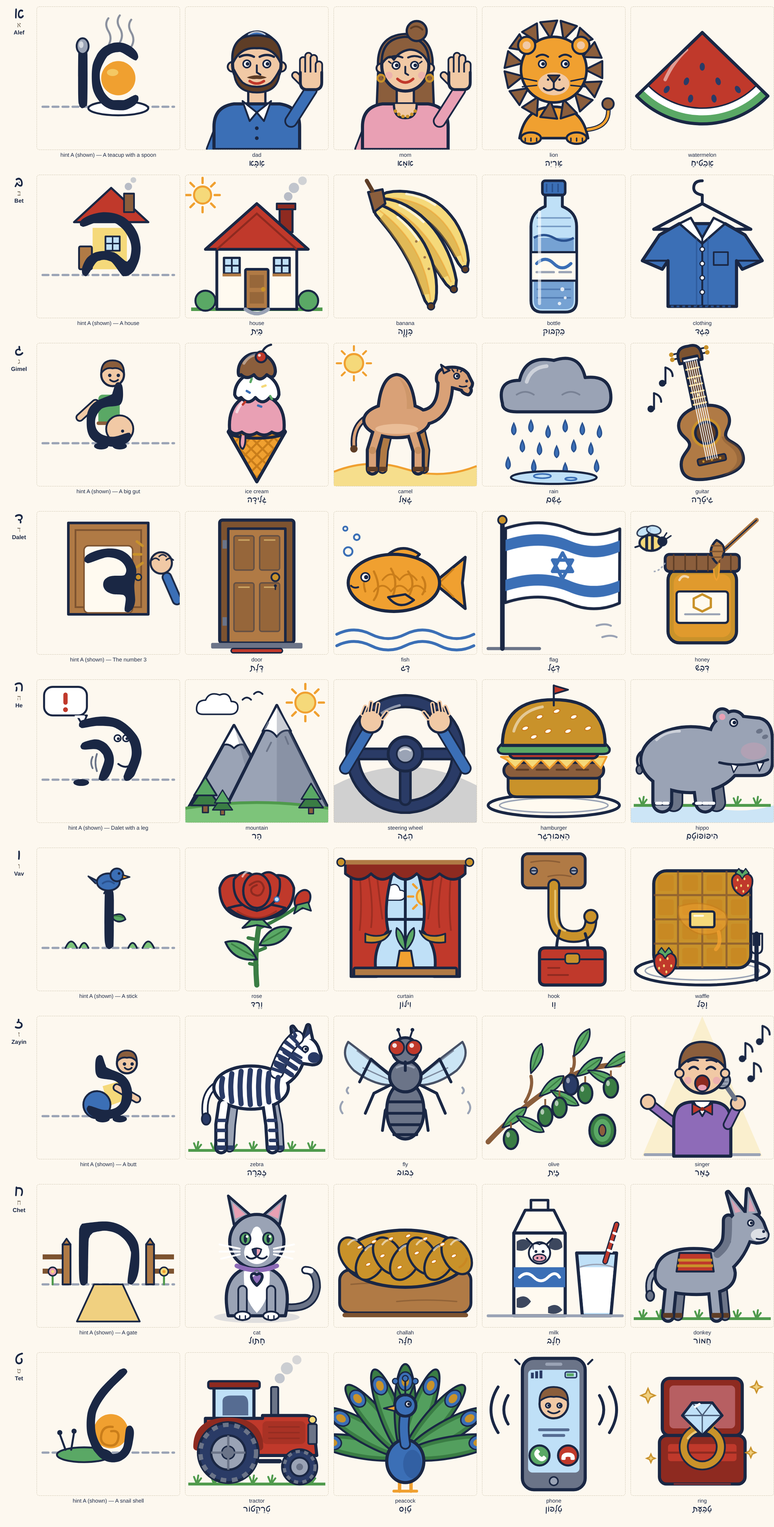
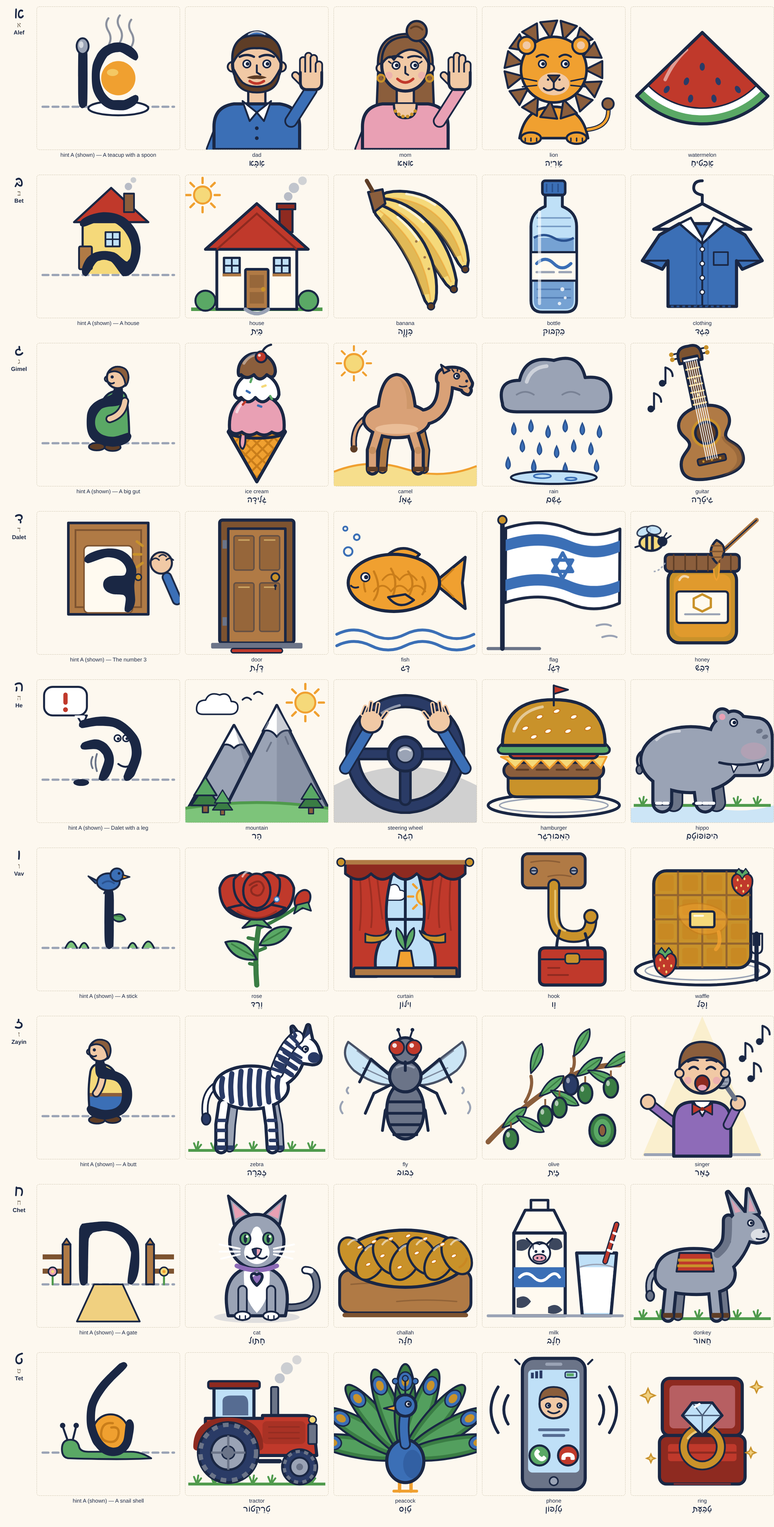
Letter Learner: five cursive picture hints redrawn — house, gimel, zayin, snail, kaf
- Bet (a house): the yellow wall now fills the whole house, following the
  letter's round back wall, with a left wall edge above the door.
- Gimel (a big gut) and zayin (a butt): each person faces left, so gimel's
  round bulge is the belly in front and zayin's is the butt behind; the
  shirt (and zayin's jeans) fill the letter's bowl, the head sits on the
  letter's stem, and brown shoes peek out underneath.
- Tet (a snail shell): the letter sits on the line like the others (its
  bottom matched to theirs), the shell fills the loop exactly, and the
  snail's body runs under the shell with its head and eye stalks in front.
- Kaf (a cupped hand): a hand curled into the kaf, with stacked fingers on
  top, the thumb below, a white cuff and blue sleeve like the "hand" word
  picture, and the ball caught inside.

Every letter shape is unchanged (tet only moved up 4.4 units). Cursive
review sheets c1 and c2 re-rendered; sw.js v1022.

Claude-Session: https://claude.ai/code/session_01FW7tFxqqg4UHwftoEBKYhF

diff --git a/letter_learner.html b/letter_learner.html
@@ -1200,16 +1200,16 @@ const VOWEL_TIPS = [
    write-up's own words. ═══ */
 const CURSIVE_TRICKS = [
   { id: 'alef', picture: 'A teacup with a spoon', hint: { caption: 'A little curve with a stick standing next to it, like a spoon beside its cup.', show: 0, variants: [{ label: 'A', svg: `<path d="M4 70H96" fill="none" stroke="var(--ll-gray)" stroke-width="1.6" stroke-dasharray="4 3" stroke-linecap="round"/><ellipse cx="57" cy="71" rx="21" ry="5" fill="var(--ll-white)" stroke="var(--ll-line)" stroke-linecap="round" stroke-linejoin="round" stroke-width="1.4"/><circle cx="57" cy="50" r="12" fill="var(--ll-orange)"/><ellipse cx="53" cy="46" rx="4" ry="2.5" fill="var(--ll-yellow)" opacity="0.7"/><g class="ll-anim ll-anim-drift"><path d="M50 27q3-5 0-10q-3-5 0-9M58 25q3-5 0-10q-3-5 0-9M66 28q3-5 0-10q-3-5 0-9" fill="none" stroke="var(--ll-gray-dk)" stroke-width="1.4" stroke-linecap="round" opacity="0.8"/></g><path d="M31.6 24.9C32.2 24.7 32.8 24.9 33.3 25.2C33.8 25.5 34.3 25.4 34.6 26.9C35 28.3 35.3 27.3 35.4 33.7C35.5 40.2 35.5 59.6 35.3 65.5C35.1 71.5 34.7 68.7 34.2 69.6C33.6 70.5 32.6 70.9 32 71C31.4 71.2 31 70.8 30.6 70.4C30.2 70 29.8 70.1 29.6 68.7C29.3 67.4 29 68.6 28.9 62.3C28.8 55.9 28.8 36.4 29 30.4C29.2 24.5 29.4 27.6 29.8 26.7C30.2 25.7 31 25.2 31.6 24.9ZM55.6 25C57.1 24.9 58.9 25 60.6 25.4C62.2 25.8 64 26.6 65.5 27.5C66.9 28.4 68.4 29.7 69.3 30.9C70.3 32.1 70.8 33.5 70.9 34.5C71.1 35.5 70.7 36.2 70.3 36.7C69.8 37.1 70 38 68.3 37.3C66.5 36.5 61.7 33.1 59.8 32.2C57.9 31.3 57.8 31.7 56.8 31.7C55.7 31.7 54.6 31.9 53.6 32.2C52.6 32.5 51.6 33 50.8 33.6C49.9 34.2 49.5 34.2 48.5 35.8C47.5 37.3 45.6 40.9 44.9 43C44.1 45.1 44 46.7 44 48.6C44 50.5 44.3 52.3 44.8 54.2C45.4 56.1 46.3 58.4 47.2 60C48.2 61.6 49.4 62.9 50.5 63.8C51.6 64.7 52.7 65.1 53.8 65.5C55 65.8 56.2 66 57.6 65.9C58.9 65.9 60.1 65.7 61.8 65C63.6 64.4 66.9 62.4 68.3 61.9C69.6 61.4 69.5 61.8 69.9 62C70.4 62.2 70.8 62.3 71 63C71.2 63.6 71.3 64.9 70.9 65.8C70.5 66.8 69.7 67.9 68.6 68.8C67.5 69.7 65.8 70.8 64.3 71.4C62.9 72 61.9 72.4 59.8 72.5C57.7 72.5 54.1 72.4 51.8 71.8C49.5 71.1 47.6 70 45.7 68.3C43.9 66.7 41.9 64 40.7 61.6C39.5 59.2 38.9 57.3 38.6 54.1C38.3 50.8 38.3 45.3 38.8 42C39.3 38.7 40.7 36.1 41.7 34.2C42.6 32.2 43.4 31.5 44.3 30.4C45.2 29.4 46 28.7 47.2 27.9C48.3 27.2 50 26.4 51.4 25.9C52.8 25.4 54 25 55.6 25Z" fill="var(--ll-line)" fill-rule="evenodd"/><ellipse cx="32" cy="27.5" rx="4.2" ry="5.5" fill="var(--ll-gray)" stroke="var(--ll-line)" stroke-linecap="round" stroke-linejoin="round" stroke-width="1.3"/><ellipse cx="31" cy="26.5" rx="1.6" ry="2.4" fill="var(--ll-white)" opacity="0.6"/>` }] } },
-  { id: 'bet', picture: 'A house', hint: { caption: 'Bayit means house: a round back wall with a floor that sticks out the front door.', show: 0, variants: [{ label: 'A', svg: `<path d="M4 70H96" fill="none" stroke="var(--ll-gray)" stroke-width="1.6" stroke-dasharray="4 3" stroke-linecap="round"/><polygon points="26,33 52,9 78,33" fill="var(--ll-red)" stroke="var(--ll-line)" stroke-linecap="round" stroke-linejoin="round" stroke-width="1.5"/><rect x="61" y="13" width="7" height="13" fill="var(--ll-brown)" stroke="var(--ll-line)" stroke-linecap="round" stroke-linejoin="round" stroke-width="1.2"/><g class="ll-anim ll-anim-drift"><circle cx="64" cy="8" r="2.6" fill="var(--ll-gray)" opacity="0.7"/><circle cx="67.5" cy="3.5" r="2" fill="var(--ll-gray)" opacity="0.5"/></g><rect x="39" y="37" width="24" height="29" fill="var(--ll-yellow)"/><rect x="48" y="43" width="10" height="10" fill="var(--ll-sky)" stroke="var(--ll-line)" stroke-linecap="round" stroke-linejoin="round" stroke-width="1.2"/><path d="M53 43v10M48 48h10" fill="none" stroke="var(--ll-line)" stroke-width="1"/><rect x="29.5" y="50" width="9" height="16" rx="1" fill="var(--ll-wood)" stroke="var(--ll-line)" stroke-linecap="round" stroke-linejoin="round" stroke-width="1.3"/><circle cx="36.5" cy="59" r="1" fill="var(--ll-line)"/><path d="M46.6 26C49.1 26 51.8 26.2 54.3 26.8C56.7 27.4 59.2 28.4 61.3 29.7C63.3 31.1 65.2 32.8 66.7 34.8C68.3 36.8 69.8 39.2 70.8 41.8C71.7 44.4 72.4 47.5 72.6 50.4C72.7 53.3 72.3 56.4 71.6 59.1C70.9 61.7 69.5 64.5 68.6 66.2C67.7 67.8 67.1 68.2 66.3 68.9C65.5 69.6 64.6 70.1 63.8 70.4C63 70.7 62.2 70.9 61.5 70.8C60.7 70.7 60.8 71.5 59.4 70C58 68.5 54.7 63.4 53.2 61.8C51.7 60.1 51.4 60.5 50.5 60.1C49.5 59.7 48.5 59.4 47.5 59.4C46.4 59.3 45.1 59.5 44.1 59.9C43 60.2 42.7 59.8 41.2 61.5C39.8 63.2 36.7 68.7 35.4 70.1C34 71.6 33.8 70.6 33.2 70.4C32.6 70.2 32 69.7 31.7 68.8C31.5 67.9 31.3 66.4 31.7 64.9C32.1 63.3 33.1 61 34 59.6C34.8 58.2 35.8 57.3 36.9 56.4C38.1 55.4 39.5 54.7 41.1 54.1C42.8 53.6 45 53.2 46.9 53.2C48.9 53.1 51.4 53.5 52.9 53.9C54.4 54.2 54.5 54.3 56.1 55.3C57.6 56.4 60.9 59.6 62.2 60.3C63.6 61 63.5 60.1 64.1 59.6C64.6 59.2 65.1 58.7 65.4 57.3C65.8 56 66.2 53.3 66.2 51.4C66.1 49.4 65.8 47.5 65 45.5C64.2 43.4 62.6 40.8 61.2 39C59.8 37.2 58.2 35.9 56.8 34.9C55.3 33.8 54.1 33.4 52.5 33C51 32.6 49.3 32.4 47.5 32.4C45.7 32.4 44 32.5 41.7 33.1C39.3 33.7 35.2 35.6 33.5 36C31.8 36.5 32 36.1 31.5 35.9C30.9 35.7 30.3 35.6 30.2 34.9C30 34.3 30 33.1 30.6 32.2C31.2 31.3 32.5 30.3 34 29.5C35.5 28.7 37.7 27.8 39.8 27.2C41.9 26.7 44.2 26.1 46.6 26Z" fill="var(--ll-line)" fill-rule="evenodd"/>` }] } },
-  { id: 'gimel', picture: 'A big gut', hint: { caption: 'Gimel has a gut: the round belly pokes out in front.', show: 0, variants: [{ label: 'A', svg: `<path d="M4 70H96" fill="none" stroke="var(--ll-gray)" stroke-width="1.6" stroke-dasharray="4 3" stroke-linecap="round"/><circle cx="53" cy="22" r="8" fill="var(--ll-skin)" stroke="var(--ll-line)" stroke-linecap="round" stroke-linejoin="round" stroke-width="1.5"/><path d="M45 21Q45 12 53 12Q61 12 61 21Q57.8 16.4 53 17.6Q48.2 16.4 45 21Z" fill="var(--ll-brown)" stroke="var(--ll-line)" stroke-linecap="round" stroke-linejoin="round" stroke-width="1.2"/><circle cx="51" cy="22.5" r="1.2" fill="var(--ll-line)"/><circle cx="57" cy="22.5" r="1.2" fill="var(--ll-line)"/><path d="M51.2 25.6q2.8 2.4 5.6 0" fill="none" stroke="var(--ll-line)" stroke-linecap="round" stroke-linejoin="round" stroke-width="1.2"/><path d="M41 42L30 52" fill="none" stroke="var(--ll-line)" stroke-width="6" stroke-linecap="round" stroke-linejoin="round"/><path d="M41 42L30 52" fill="none" stroke="var(--ll-skin)" stroke-width="3.6" stroke-linecap="round" stroke-linejoin="round"/><rect x="43" y="36" width="15" height="21" rx="3" fill="var(--ll-green)"/><path d="M43 56h18" fill="none" stroke="var(--ll-brown)" stroke-width="2.4" stroke-linecap="round"/><circle cx="58" cy="60" r="9.5" fill="var(--ll-skin)" stroke="var(--ll-line)" stroke-linecap="round" stroke-linejoin="round" stroke-width="1.3"/><ellipse cx="45" cy="72" rx="5" ry="2.4" fill="var(--ll-line)"/><ellipse cx="58" cy="72" rx="5" ry="2.4" fill="var(--ll-line)"/><path d="M56.6 27.3C57.2 27.2 58.2 27.4 58.8 28C59.3 28.6 59.8 29.3 60 30.8C60.3 32.4 60.4 35.4 60.3 37.2C60.2 39 59.9 40.4 59.4 41.4C58.8 42.5 58.7 43.1 56.9 43.6C55 44.2 50.3 44.2 48.2 44.8C46.2 45.3 45.5 45.6 44.4 46.8C43.2 48 41.8 50.1 41.2 52C40.6 53.8 40.6 56.3 41 58C41.3 59.7 42.2 61.1 43.3 62.2C44.5 63.4 45.9 64.2 47.8 64.7C49.7 65.3 52 65.7 54.6 65.3C57.3 65 61.9 63 63.7 62.7C65.5 62.5 65.2 63.1 65.6 63.6C66 64.1 66.3 64.8 66.1 65.6C65.9 66.5 65.4 67.7 64.5 68.6C63.6 69.5 62.2 70.3 60.7 70.9C59.3 71.5 57.5 72 55.7 72.2C54 72.5 52.7 72.6 50.5 72.2C48.2 71.8 44.3 70.8 42.1 69.8C40 68.8 38.6 67.7 37.4 66.1C36.2 64.4 35.5 62.5 35.1 60C34.7 57.4 34.8 53.2 35 51C35.2 48.7 35.6 47.9 36.1 46.6C36.7 45.3 37.3 44.3 38.4 43.2C39.5 42.1 40.4 41.2 42.6 40C44.8 38.8 49.9 37.1 51.7 36.2C53.4 35.2 52.6 35.4 53.1 34.2C53.6 32.9 54.3 30 54.9 28.8C55.5 27.7 55.9 27.5 56.6 27.3Z" fill="var(--ll-line)" fill-rule="evenodd"/><circle cx="60" cy="61.5" r="1.1" fill="var(--ll-line)"/>` }] } },
+  { id: 'bet', picture: 'A house', hint: { caption: 'Bayit means house: a round back wall with a floor that sticks out the front door.', show: 0, variants: [{ label: 'A', svg: `<path d="M4 70H96" fill="none" stroke="var(--ll-gray)" stroke-width="1.6" stroke-dasharray="4 3" stroke-linecap="round"/><path d="M32 33H64Q69 40 69.5 50Q69.5 60 66 66L62.5 69.2H32Z" fill="var(--ll-yellow)"/><path d="M32 33V66" fill="none" stroke="var(--ll-line)" stroke-width="1.5" stroke-linecap="round"/><polygon points="26,33 52,9 78,33" fill="var(--ll-red)" stroke="var(--ll-line)" stroke-linecap="round" stroke-linejoin="round" stroke-width="1.5"/><rect x="61" y="13" width="7" height="13" fill="var(--ll-brown)" stroke="var(--ll-line)" stroke-linecap="round" stroke-linejoin="round" stroke-width="1.2"/><g class="ll-anim ll-anim-drift"><circle cx="64" cy="8" r="2.6" fill="var(--ll-gray)" opacity="0.7"/><circle cx="67.5" cy="3.5" r="2" fill="var(--ll-gray)" opacity="0.5"/></g><rect x="48" y="40" width="10" height="10" fill="var(--ll-sky)" stroke="var(--ll-line)" stroke-linecap="round" stroke-linejoin="round" stroke-width="1.2"/><path d="M53 40v10M48 45h10" fill="none" stroke="var(--ll-line)" stroke-width="1"/><rect x="29.5" y="50" width="9" height="16" rx="1" fill="var(--ll-wood)" stroke="var(--ll-line)" stroke-linecap="round" stroke-linejoin="round" stroke-width="1.3"/><circle cx="36.5" cy="59" r="1" fill="var(--ll-line)"/><path d="M46.6 26C49.1 26 51.8 26.2 54.3 26.8C56.7 27.4 59.2 28.4 61.3 29.7C63.3 31.1 65.2 32.8 66.7 34.8C68.3 36.8 69.8 39.2 70.8 41.8C71.7 44.4 72.4 47.5 72.6 50.4C72.7 53.3 72.3 56.4 71.6 59.1C70.9 61.7 69.5 64.5 68.6 66.2C67.7 67.8 67.1 68.2 66.3 68.9C65.5 69.6 64.6 70.1 63.8 70.4C63 70.7 62.2 70.9 61.5 70.8C60.7 70.7 60.8 71.5 59.4 70C58 68.5 54.7 63.4 53.2 61.8C51.7 60.1 51.4 60.5 50.5 60.1C49.5 59.7 48.5 59.4 47.5 59.4C46.4 59.3 45.1 59.5 44.1 59.9C43 60.2 42.7 59.8 41.2 61.5C39.8 63.2 36.7 68.7 35.4 70.1C34 71.6 33.8 70.6 33.2 70.4C32.6 70.2 32 69.7 31.7 68.8C31.5 67.9 31.3 66.4 31.7 64.9C32.1 63.3 33.1 61 34 59.6C34.8 58.2 35.8 57.3 36.9 56.4C38.1 55.4 39.5 54.7 41.1 54.1C42.8 53.6 45 53.2 46.9 53.2C48.9 53.1 51.4 53.5 52.9 53.9C54.4 54.2 54.5 54.3 56.1 55.3C57.6 56.4 60.9 59.6 62.2 60.3C63.6 61 63.5 60.1 64.1 59.6C64.6 59.2 65.1 58.7 65.4 57.3C65.8 56 66.2 53.3 66.2 51.4C66.1 49.4 65.8 47.5 65 45.5C64.2 43.4 62.6 40.8 61.2 39C59.8 37.2 58.2 35.9 56.8 34.9C55.3 33.8 54.1 33.4 52.5 33C51 32.6 49.3 32.4 47.5 32.4C45.7 32.4 44 32.5 41.7 33.1C39.3 33.7 35.2 35.6 33.5 36C31.8 36.5 32 36.1 31.5 35.9C30.9 35.7 30.3 35.6 30.2 34.9C30 34.3 30 33.1 30.6 32.2C31.2 31.3 32.5 30.3 34 29.5C35.5 28.7 37.7 27.8 39.8 27.2C41.9 26.7 44.2 26.1 46.6 26Z" fill="var(--ll-line)" fill-rule="evenodd"/>` }] } },
+  { id: 'gimel', picture: 'A big gut', hint: { caption: 'Gimel has a gut: the round belly pokes out in front.', show: 0, variants: [{ label: 'A', svg: `<path d="M4 70H96" fill="none" stroke="var(--ll-gray)" stroke-width="1.6" stroke-dasharray="4 3" stroke-linecap="round"/><ellipse cx="42" cy="72.4" rx="5.6" ry="2.6" fill="var(--ll-brown-dk)" stroke="var(--ll-line)" stroke-width="1.2"/><ellipse cx="53" cy="72.8" rx="5.6" ry="2.6" fill="var(--ll-brown-dk)" stroke="var(--ll-line)" stroke-width="1.2"/><path d="M46.5 39.5Q50 33.5 56.5 33.5Q62 33.5 62.8 38.5Q64.4 50 64.8 64L50 68Q37 66 38.5 52Q40 43 46.5 39.5Z" fill="var(--ll-green)"/><path d="M46.5 39.5Q50 33.5 56.5 33.5Q62 33.5 62.8 38.5Q64.4 50 64.6 63.5" fill="none" stroke="var(--ll-line)" stroke-width="1.5" stroke-linecap="round" stroke-linejoin="round"/><path d="M61.6 40.5Q60.5 50 51 53" fill="none" stroke="var(--ll-line)" stroke-width="6" stroke-linecap="round" stroke-linejoin="round"/><path d="M61.6 40.5Q60.5 50 51 53" fill="none" stroke="var(--ll-skin)" stroke-width="3.6" stroke-linecap="round" stroke-linejoin="round"/><path d="M56.6 27.3C57.2 27.2 58.2 27.4 58.8 28C59.3 28.6 59.8 29.3 60 30.8C60.3 32.4 60.4 35.4 60.3 37.2C60.2 39 59.9 40.4 59.4 41.4C58.8 42.5 58.7 43.1 56.9 43.6C55 44.2 50.3 44.2 48.2 44.8C46.2 45.3 45.5 45.6 44.4 46.8C43.2 48 41.8 50.1 41.2 52C40.6 53.8 40.6 56.3 41 58C41.3 59.7 42.2 61.1 43.3 62.2C44.5 63.4 45.9 64.2 47.8 64.7C49.7 65.3 52 65.7 54.6 65.3C57.3 65 61.9 63 63.7 62.7C65.5 62.5 65.2 63.1 65.6 63.6C66 64.1 66.3 64.8 66.1 65.6C65.9 66.5 65.4 67.7 64.5 68.6C63.6 69.5 62.2 70.3 60.7 70.9C59.3 71.5 57.5 72 55.7 72.2C54 72.5 52.7 72.6 50.5 72.2C48.2 71.8 44.3 70.8 42.1 69.8C40 68.8 38.6 67.7 37.4 66.1C36.2 64.4 35.5 62.5 35.1 60C34.7 57.4 34.8 53.2 35 51C35.2 48.7 35.6 47.9 36.1 46.6C36.7 45.3 37.3 44.3 38.4 43.2C39.5 42.1 40.4 41.2 42.6 40C44.8 38.8 49.9 37.1 51.7 36.2C53.4 35.2 52.6 35.4 53.1 34.2C53.6 32.9 54.3 30 54.9 28.8C55.5 27.7 55.9 27.5 56.6 27.3Z" fill="var(--ll-line)" fill-rule="evenodd"/><circle cx="49.4" cy="25" r="1.9" fill="var(--ll-skin)" stroke="var(--ll-line)" stroke-width="1.2"/><circle cx="56.5" cy="24" r="7.5" fill="var(--ll-skin)" stroke="var(--ll-line)" stroke-linecap="round" stroke-linejoin="round" stroke-width="1.5"/><path d="M50.5 20.6Q52 16.4 56.5 16.4Q64.2 16.5 64.1 24Q64 28 62.1 29.8Q61.5 23.4 57.9 20.6Q54.3 18.6 50.5 20.6Z" fill="var(--ll-brown)" stroke="var(--ll-line)" stroke-linecap="round" stroke-linejoin="round" stroke-width="1.2"/><circle cx="52.7" cy="23.6" r="1.1" fill="var(--ll-line)"/><path d="M50.4 27.4q1.7 1.5 3.6 0.3" fill="none" stroke="var(--ll-line)" stroke-linecap="round" stroke-linejoin="round" stroke-width="1.2"/>` }] } },
   { id: 'dalet', picture: 'The number 3', hint: { caption: 'Dalet looks like a 3. Delet means door: knock 3 times.', show: 0, variants: [{ label: 'A', svg: `<rect x="22" y="8" width="56" height="64" fill="var(--ll-wood)" stroke="var(--ll-line)" stroke-linecap="round" stroke-linejoin="round" stroke-width="1.8"/><rect x="27" y="13" width="46" height="54" fill="none" stroke="var(--ll-wood-dk)" stroke-width="1.2"/><rect x="33" y="24" width="34" height="47" rx="3" fill="var(--ll-paper)" stroke="var(--ll-wood-dk)" stroke-width="1"/><circle cx="71" cy="46" r="2.2" fill="var(--ll-gold)" stroke="var(--ll-line)" stroke-linecap="round" stroke-linejoin="round" stroke-width="1"/><path d="M74 24l-4-3M73 30l-5 0M74 36l-4 3" fill="none" stroke="var(--ll-gold)" stroke-width="1.8" stroke-linecap="round"/><g class="ll-anim ll-anim-drift"><path d="M98 62L91 46" fill="none" stroke="var(--ll-line)" stroke-width="7.4" stroke-linecap="round" stroke-linejoin="round"/><path d="M98 62L91 46" fill="none" stroke="var(--ll-blue)" stroke-width="5" stroke-linecap="round" stroke-linejoin="round"/><circle cx="87" cy="36" r="7.5" fill="var(--ll-skin)" stroke="var(--ll-line)" stroke-linecap="round" stroke-linejoin="round" stroke-width="1.4"/><path d="M80.5 34q2.5-2.5 5 0M85.5 31.5q2.5-2.5 5 0M90.5 34q2.5-2.5 5 0" fill="none" stroke="var(--ll-line)" stroke-width="1" stroke-linecap="round"/></g><path d="M48.5 26C50.7 25.8 53.3 25.9 55.4 26.2C57.5 26.6 59.6 27.3 61.3 28.3C62.9 29.2 64.3 30.4 65.5 31.9C66.7 33.4 67.9 35.6 68.6 37.4C69.3 39.2 69.7 40.3 69.6 42.7C69.5 45.1 68.3 48.4 68.2 51.7C68.1 54.9 68.9 59.6 68.8 62.3C68.6 64.9 68 66.3 67.3 67.7C66.6 69 65.4 69.9 64.6 70.4C63.9 70.8 63.2 70.6 62.6 70.3C62.1 70.1 61.5 70.2 61.4 68.7C61.3 67.3 62.2 63.1 62.2 61.5C62.2 59.9 61.8 59.7 61.4 59.2C61 58.7 60.9 58.5 59.6 58.3C58.3 58.1 55.1 58.1 53.5 57.9C52 57.6 51.2 57.3 50.2 56.8C49.2 56.3 48.3 55.6 47.6 54.7C47 53.9 46.5 52.8 46.4 51.7C46.3 50.7 46.5 49.3 47 48.4C47.5 47.4 48.5 46.7 49.5 46.1C50.5 45.6 51.3 45.3 53 45.1C54.7 44.9 58.2 45.1 59.7 44.9C61.2 44.7 61.3 44.6 61.8 43.9C62.3 43.1 62.8 41.7 62.5 40.4C62.3 39.1 61.4 37.4 60.4 36.3C59.4 35.1 58 34.1 56.4 33.4C54.9 32.7 52.9 32.3 51.2 32.1C49.5 32 48.6 32 46.2 32.7C43.8 33.3 38.7 35.5 36.7 36C34.8 36.5 35.1 36 34.5 35.7C33.9 35.5 33.4 35.1 33.2 34.5C33.1 33.8 33.2 32.7 33.7 31.9C34.3 31.1 35 30.4 36.5 29.6C37.9 28.8 40.4 27.8 42.4 27.2C44.4 26.6 46.3 26.2 48.5 26Z" fill="var(--ll-line)" fill-rule="evenodd"/>` }] } },
   { id: 'he', picture: 'Dalet with a leg', hint: { caption: "Dalet's 3 with a little leg that doesn't touch: \"Hey, don't touch me!\"", show: 0, variants: [{ label: 'A', svg: `<path d="M4 70H96" fill="none" stroke="var(--ll-gray)" stroke-width="1.6" stroke-dasharray="4 3" stroke-linecap="round"/><rect x="5" y="5" width="30" height="20" rx="6" fill="var(--ll-white)" stroke="var(--ll-line)" stroke-linecap="round" stroke-linejoin="round" stroke-width="1.4"/><path d="M28 25l4 7l3-7z" fill="var(--ll-white)" stroke="var(--ll-line)" stroke-linecap="round" stroke-linejoin="round" stroke-width="1.3"/><rect x="26.5" y="25" width="7" height="1.8" fill="var(--ll-white)"/><rect x="18.5" y="9" width="3" height="8.5" rx="1.5" fill="var(--ll-red)"/><circle cx="20" cy="21" r="1.7" fill="var(--ll-red)"/><circle cx="56.5" cy="41" r="2.3" fill="var(--ll-white)" stroke="var(--ll-line)" stroke-linecap="round" stroke-linejoin="round" stroke-width="1"/><circle cx="62.5" cy="41" r="2.3" fill="var(--ll-white)" stroke="var(--ll-line)" stroke-linecap="round" stroke-linejoin="round" stroke-width="1"/><circle cx="57" cy="41.3" r="1" fill="var(--ll-line)"/><circle cx="63" cy="41.3" r="1" fill="var(--ll-line)"/><path d="M57 59q5 4 10 0" fill="none" stroke="var(--ll-line)" stroke-linecap="round" stroke-linejoin="round" stroke-width="1.3"/><path d="M39 54q-2 4 0 8M42 52q-2 6 0 12" fill="none" stroke="var(--ll-gray-dk)" stroke-width="1.2" stroke-linecap="round"/><ellipse cx="31" cy="72" rx="5.5" ry="2.4" fill="var(--ll-line)"/><path d="M42.5 26C45.7 25.6 48.7 25.7 51.3 26.2C54 26.6 56.3 27.3 58.6 28.5C60.9 29.8 63.2 31.6 65.3 33.6C67.3 35.6 69.5 38.1 70.8 40.5C72.1 42.8 72.7 45.5 73 47.8C73.4 50.2 73.5 51.9 72.8 54.8C72.2 57.7 70 63.2 69 65.5C68 67.8 67.6 67.9 66.8 68.7C66.1 69.5 65.4 70.2 64.6 70.5C63.9 70.8 62.7 71 62.1 70.7C61.4 70.4 60.9 69.5 60.8 68.7C60.6 67.9 60.5 67.9 61.3 65.9C62 63.8 64.5 58.9 65.4 56.4C66.2 53.9 66.4 52.9 66.4 50.9C66.4 48.9 66 46.4 65.2 44.4C64.4 42.3 63.1 40.2 61.6 38.6C60.2 37 58.3 35.6 56.6 34.6C54.9 33.6 54.1 33.1 51.6 32.7C49.2 32.3 45.1 32.2 41.9 32.3C38.7 32.5 34.3 33.6 32.5 33.8C30.6 34 31.1 33.7 30.7 33.5C30.2 33.3 29.7 33 29.5 32.5C29.4 31.9 29.3 30.9 29.8 30.2C30.2 29.5 30 28.9 32.1 28.2C34.3 27.5 39.3 26.3 42.5 26ZM40.2 41.8C42.1 41.6 43.3 42 44.7 42.5C46 43 47.4 43.8 48.6 44.8C49.7 45.9 50.9 47.3 51.7 48.7C52.6 50.1 53.2 51.7 53.6 53.3C53.9 54.9 54 56.5 53.8 58.3C53.6 60.1 52.9 62.3 52.2 64.1C51.5 65.8 50.6 67.5 49.7 68.6C48.7 69.8 47.5 70.5 46.6 70.7C45.7 71 44.9 70.7 44.3 70.4C43.8 70 42.9 70.6 43.4 68.4C43.8 66.3 46.4 59.9 47 57.6C47.6 55.3 47.2 55.5 47 54.5C46.7 53.5 46.7 52.7 45.8 51.8C44.9 50.8 43.7 49.2 41.6 48.7C39.4 48.2 34.6 49.2 32.8 48.9C30.9 48.7 30.9 47.9 30.6 47.3C30.3 46.7 30.6 46 31 45.4C31.4 44.8 31.4 44.3 32.9 43.7C34.5 43.1 38.2 42 40.2 41.8Z" fill="var(--ll-line)" fill-rule="evenodd"/>` }] } },
   { id: 'vav', picture: 'A stick', hint: { caption: 'One straight line, like a stick or a hook hanging down.', show: 0, variants: [{ label: 'A', svg: `<path d="M4 70H96" fill="none" stroke="var(--ll-gray)" stroke-width="1.6" stroke-dasharray="4 3" stroke-linecap="round"/><path d="M20 70q4-9 8 0M30 70q3-7 6 0M64 70q3-7 6 0M74 70q4-9 8 0" fill="var(--ll-grass)" stroke="var(--ll-line)" stroke-linecap="round" stroke-linejoin="round" stroke-width="1.2"/><path d="M52 48q8-4 10 2q-6 4-10-2z" fill="var(--ll-green)" stroke="var(--ll-line)" stroke-linecap="round" stroke-linejoin="round" stroke-width="1.2"/><path d="M52 48q5-1 9 1" fill="none" stroke="var(--ll-green-dk)" stroke-width="0.8"/><path d="M50.6 27.3C51.2 27.2 51.7 27.5 52.1 27.9C52.6 28.3 52.9 28.2 53.2 29.7C53.5 31.1 53.8 30.7 53.9 36.7C53.9 42.7 53.9 60.4 53.7 65.8C53.6 71.3 53.3 68.6 52.8 69.4C52.3 70.2 51.4 70.7 50.8 70.8C50.2 70.9 49.6 70.5 49.2 70C48.7 69.6 48.3 69.7 48 68.1C47.7 66.5 47.4 66.4 47.3 60.5C47.2 54.6 47.3 38 47.5 32.7C47.7 27.5 48 29.8 48.5 28.9C49 28 50 27.5 50.6 27.3Z" fill="var(--ll-line)" fill-rule="evenodd"/><g class="ll-anim ll-anim-bob"><ellipse cx="50" cy="24" rx="8" ry="6" fill="var(--ll-blue)" stroke="var(--ll-line)" stroke-linecap="round" stroke-linejoin="round" stroke-width="1.3"/><circle cx="56" cy="19" r="4.5" fill="var(--ll-blue)" stroke="var(--ll-line)" stroke-linecap="round" stroke-linejoin="round" stroke-width="1.3"/><path d="M60 19l5 1.5l-5 1.5z" fill="var(--ll-orange)" stroke="var(--ll-line)" stroke-linecap="round" stroke-linejoin="round" stroke-width="1"/><circle cx="57.5" cy="18" r="0.9" fill="var(--ll-line)"/><path d="M42 23l-6-3l5 5" fill="var(--ll-blue-dk)" stroke="var(--ll-line)" stroke-linecap="round" stroke-linejoin="round" stroke-width="1.1"/><path d="M46 25q4-3 8 0" fill="none" stroke="var(--ll-blue-dk)" stroke-width="1.2" stroke-linecap="round"/><path d="M48 30l-1 2M52 30l1 2" fill="none" stroke="var(--ll-line)" stroke-linecap="round" stroke-linejoin="round" stroke-width="1.1"/></g>` }] } },
-  { id: 'zayin', picture: 'A butt', hint: { caption: 'Zayin has a butt: it sticks out in back.', show: 0, variants: [{ label: 'A', svg: `<path d="M4 70H96" fill="none" stroke="var(--ll-gray)" stroke-width="1.6" stroke-dasharray="4 3" stroke-linecap="round"/><circle cx="63" cy="33" r="7" fill="var(--ll-skin)" stroke="var(--ll-line)" stroke-linecap="round" stroke-linejoin="round" stroke-width="1.5"/><path d="M56 32Q56 24 63 24Q70 24 70 32Q67.2 28.1 63 29.1Q58.8 28.1 56 32Z" fill="var(--ll-brown)" stroke="var(--ll-line)" stroke-linecap="round" stroke-linejoin="round" stroke-width="1.2"/><circle cx="61.3" cy="33.5" r="1.2" fill="var(--ll-line)"/><circle cx="66.7" cy="33.5" r="1.2" fill="var(--ll-line)"/><path d="M61.5 36.1q2.4 2.4 4.9 0" fill="none" stroke="var(--ll-line)" stroke-linecap="round" stroke-linejoin="round" stroke-width="1.2"/><polygon points="46,49 60,45 64,58 50,63" fill="var(--ll-yellow)"/><circle cx="42" cy="62" r="9.5" fill="var(--ll-blue)" stroke="var(--ll-line)" stroke-linecap="round" stroke-linejoin="round" stroke-width="1.3"/><path d="M56 50L70 58" fill="none" stroke="var(--ll-line)" stroke-width="6" stroke-linecap="round" stroke-linejoin="round"/><path d="M56 50L70 58" fill="none" stroke="var(--ll-skin)" stroke-width="3.6" stroke-linecap="round" stroke-linejoin="round"/><ellipse cx="46" cy="72" rx="5" ry="2.4" fill="var(--ll-line)"/><ellipse cx="58" cy="72" rx="5" ry="2.4" fill="var(--ll-line)"/><path d="M43.5 27.3C44 27.1 44.5 27.2 44.9 27.4C45.3 27.6 45.6 27.4 46.1 28.5C46.6 29.6 47.5 33 48.1 34.3C48.7 35.6 47.9 35.4 49.7 36.3C51.4 37.3 56.3 38.8 58.5 40C60.6 41.1 61.4 41.9 62.5 43C63.6 44.2 64.4 45.5 65.1 47C65.7 48.6 66.4 50.3 66.6 52.4C66.8 54.5 66.8 57.3 66.2 59.6C65.6 61.8 64.3 64.3 62.9 66C61.6 67.7 60.2 68.7 58.1 69.7C55.9 70.7 52.3 71.7 50.2 72.1C48 72.5 46.8 72.4 45.2 72.2C43.5 72 41.8 71.5 40.3 70.9C38.9 70.3 37.5 69.4 36.6 68.5C35.7 67.6 35.1 66.4 34.9 65.6C34.7 64.7 35 64 35.4 63.5C35.8 63.1 35.4 62.4 37.3 62.8C39.1 63.1 43.7 65.2 46.3 65.5C48.9 65.9 51 65.5 52.8 65.1C54.6 64.6 56 63.8 57.1 62.7C58.2 61.6 58.9 60.3 59.2 58.4C59.6 56.6 59.7 53.6 59.3 51.7C59 49.8 57.9 48.1 56.9 46.9C55.8 45.8 55.2 45.4 53.1 44.8C50.9 44.2 46.1 44 44.2 43.4C42.3 42.8 42.3 42.2 41.7 41.3C41.2 40.3 41 39.2 40.9 37.6C40.8 36 40.8 33.2 41 31.7C41.2 30.2 41.4 29.5 41.8 28.8C42.3 28 43 27.5 43.5 27.3Z" fill="var(--ll-line)" fill-rule="evenodd"/>` }] } },
+  { id: 'zayin', picture: 'A butt', hint: { caption: 'Zayin has a butt: it sticks out in back.', show: 0, variants: [{ label: 'A', svg: `<path d="M4 70H96" fill="none" stroke="var(--ll-gray)" stroke-width="1.6" stroke-dasharray="4 3" stroke-linecap="round"/><ellipse cx="42" cy="72.6" rx="5.6" ry="2.6" fill="var(--ll-brown-dk)" stroke="var(--ll-line)" stroke-width="1.2"/><ellipse cx="53" cy="72.2" rx="5.6" ry="2.6" fill="var(--ll-brown-dk)" stroke="var(--ll-line)" stroke-width="1.2"/><path d="M36.6 63Q35.6 50 37.4 39Q38.5 33.5 44 33.5Q50.5 33.5 54 38.5L62 44V56H36.6Z" fill="var(--ll-yellow)"/><path d="M36.4 55H62.5V60Q61 66 54 68H40Q37 67 36.6 63Z" fill="var(--ll-blue)"/><path d="M36.8 55H59.5" fill="none" stroke="var(--ll-brown)" stroke-width="2.4" stroke-linecap="round"/><path d="M36.6 63Q35.6 50 37.4 39Q38.5 33.5 44 33.5Q50.5 33.5 54 38.5" fill="none" stroke="var(--ll-line)" stroke-width="1.5" stroke-linecap="round" stroke-linejoin="round"/><path d="M46 41Q45.5 49 41.5 54" fill="none" stroke="var(--ll-line)" stroke-width="6" stroke-linecap="round" stroke-linejoin="round"/><path d="M46 41Q45.5 49 41.5 54" fill="none" stroke="var(--ll-skin)" stroke-width="3.6" stroke-linecap="round" stroke-linejoin="round"/><path d="M43.5 27.3C44 27.1 44.5 27.2 44.9 27.4C45.3 27.6 45.6 27.4 46.1 28.5C46.6 29.6 47.5 33 48.1 34.3C48.7 35.6 47.9 35.4 49.7 36.3C51.4 37.3 56.3 38.8 58.5 40C60.6 41.1 61.4 41.9 62.5 43C63.6 44.2 64.4 45.5 65.1 47C65.7 48.6 66.4 50.3 66.6 52.4C66.8 54.5 66.8 57.3 66.2 59.6C65.6 61.8 64.3 64.3 62.9 66C61.6 67.7 60.2 68.7 58.1 69.7C55.9 70.7 52.3 71.7 50.2 72.1C48 72.5 46.8 72.4 45.2 72.2C43.5 72 41.8 71.5 40.3 70.9C38.9 70.3 37.5 69.4 36.6 68.5C35.7 67.6 35.1 66.4 34.9 65.6C34.7 64.7 35 64 35.4 63.5C35.8 63.1 35.4 62.4 37.3 62.8C39.1 63.1 43.7 65.2 46.3 65.5C48.9 65.9 51 65.5 52.8 65.1C54.6 64.6 56 63.8 57.1 62.7C58.2 61.6 58.9 60.3 59.2 58.4C59.6 56.6 59.7 53.6 59.3 51.7C59 49.8 57.9 48.1 56.9 46.9C55.8 45.8 55.2 45.4 53.1 44.8C50.9 44.2 46.1 44 44.2 43.4C42.3 42.8 42.3 42.2 41.7 41.3C41.2 40.3 41 39.2 40.9 37.6C40.8 36 40.8 33.2 41 31.7C41.2 30.2 41.4 29.5 41.8 28.8C42.3 28 43 27.5 43.5 27.3Z" fill="var(--ll-line)" fill-rule="evenodd"/><circle cx="36.9" cy="25" r="1.9" fill="var(--ll-skin)" stroke="var(--ll-line)" stroke-width="1.2"/><circle cx="44" cy="24" r="7.5" fill="var(--ll-skin)" stroke="var(--ll-line)" stroke-linecap="round" stroke-linejoin="round" stroke-width="1.5"/><path d="M38 20.6Q39.5 16.4 44 16.4Q51.7 16.5 51.6 24Q51.5 28 49.6 29.8Q49 23.4 45.4 20.6Q41.8 18.6 38 20.6Z" fill="var(--ll-brown)" stroke="var(--ll-line)" stroke-linecap="round" stroke-linejoin="round" stroke-width="1.2"/><circle cx="40.2" cy="23.6" r="1.1" fill="var(--ll-line)"/><path d="M37.9 27.4q1.7 1.5 3.6 0.3" fill="none" stroke="var(--ll-line)" stroke-linecap="round" stroke-linejoin="round" stroke-width="1.2"/>` }] } },
   { id: 'chet', picture: 'A gate', hint: { caption: 'Looks like a lowercase n: a gate you walk under.', show: 0, variants: [{ label: 'A', svg: `<path d="M4 70H96" fill="none" stroke="var(--ll-gray)" stroke-width="1.6" stroke-dasharray="4 3" stroke-linecap="round"/><polygon points="40,70 60,70 72,96 28,96" fill="var(--ll-gold-lt)" stroke="var(--ll-line)" stroke-linecap="round" stroke-linejoin="round" stroke-width="1.2"/><rect x="4" y="49" width="15" height="3.5" fill="var(--ll-wood-dk)"/><rect x="4" y="59" width="15" height="3.5" fill="var(--ll-wood-dk)"/><rect x="81" y="49" width="15" height="3.5" fill="var(--ll-wood-dk)"/><rect x="81" y="59" width="15" height="3.5" fill="var(--ll-wood-dk)"/><rect x="18" y="42" width="5.5" height="28" fill="var(--ll-wood)" stroke="var(--ll-line)" stroke-linecap="round" stroke-linejoin="round" stroke-width="1.3"/><polygon points="18,42 20.75,38 23.5,42" fill="var(--ll-wood)" stroke="var(--ll-line)" stroke-linecap="round" stroke-linejoin="round" stroke-width="1.2"/><rect x="76.5" y="42" width="5.5" height="28" fill="var(--ll-wood)" stroke="var(--ll-line)" stroke-linecap="round" stroke-linejoin="round" stroke-width="1.3"/><polygon points="76.5,42 79.25,38 82,42" fill="var(--ll-wood)" stroke="var(--ll-line)" stroke-linecap="round" stroke-linejoin="round" stroke-width="1.2"/><path d="M11 70v-7M89 70v-7" fill="none" stroke="var(--ll-grass-dk)" stroke-width="1.4" stroke-linecap="round"/><circle cx="11" cy="61" r="3" fill="var(--ll-pink)" stroke="var(--ll-line)" stroke-linecap="round" stroke-linejoin="round" stroke-width="1"/><circle cx="11" cy="61" r="1.1" fill="var(--ll-yellow)"/><circle cx="89" cy="61" r="3" fill="var(--ll-yellow)" stroke="var(--ll-line)" stroke-linecap="round" stroke-linejoin="round" stroke-width="1"/><circle cx="89" cy="61" r="1.1" fill="var(--ll-orange)"/><path d="M44.3 26C47.5 25.9 49.5 25.9 51.9 26.3C54.3 26.7 56.5 27.5 58.7 28.6C60.9 29.8 63.4 31.4 65.2 33.1C67.1 34.8 68.7 36.8 69.7 38.8C70.8 40.9 71.2 42.2 71.5 45.4C71.8 48.6 71.8 54.6 71.5 58.1C71.2 61.5 70.5 64 69.7 65.9C68.9 67.9 67.8 69.1 66.9 69.8C66.1 70.4 65.2 70.1 64.6 69.6C64.1 69.2 63.3 70.4 63.5 67.1C63.7 63.8 65.5 53.5 65.8 49.9C66.1 46.4 65.7 47.3 65.4 46.1C65.1 44.8 64.7 43.6 63.9 42.3C63.2 40.9 62 39.3 60.8 38.1C59.6 36.9 58.2 35.8 56.8 34.9C55.4 34.1 53.9 33.5 52.3 33.1C50.6 32.7 49 32.3 47 32.4C45 32.5 41.8 33.1 40.4 33.5C38.9 33.8 38.9 34.2 38.4 34.7C37.8 35.3 37.4 35.5 37 36.6C36.6 37.8 36.3 36.6 36.1 41.7C35.9 46.7 35.8 62.3 35.6 66.9C35.4 71.5 35.1 68.7 34.8 69.3C34.4 69.9 33.9 70.4 33.4 70.6C32.9 70.8 32.2 70.8 31.7 70.6C31.2 70.4 30.8 70.6 30.4 69.3C30.1 67.9 29.7 68 29.5 62.3C29.3 56.6 29.4 40.5 29.5 35.1C29.6 29.7 29.8 31.2 30.1 30C30.4 28.9 30.7 28.7 31.1 28.2C31.6 27.7 30.6 27.6 32.8 27.3C35 26.9 41.2 26.2 44.3 26Z" fill="var(--ll-line)" fill-rule="evenodd"/>` }] } },
-  { id: 'tet', picture: 'A snail shell', hint: { caption: 'A curl that winds around itself, like a snail.', show: 0, variants: [{ label: 'A', svg: `<path d="M4 70H96" fill="none" stroke="var(--ll-gray)" stroke-width="1.6" stroke-dasharray="4 3" stroke-linecap="round"/><circle cx="51.8" cy="55" r="12" fill="var(--ll-orange)"/><path d="M52 55q6-1 5 5q-1 6-7 5q-6-1-5-7q1-7 8-6" fill="none" stroke="var(--ll-orange-dk)" stroke-width="1.6" stroke-linecap="round"/><ellipse cx="33" cy="71.5" rx="19" ry="5.2" fill="var(--ll-green)" stroke="var(--ll-line)" stroke-linecap="round" stroke-linejoin="round" stroke-width="1.3"/><path d="M20 68L16 57M24 68L26 56" fill="none" stroke="var(--ll-line)" stroke-linecap="round" stroke-linejoin="round" stroke-width="1.4"/><circle cx="16" cy="56" r="1.8" fill="var(--ll-line)"/><circle cx="26" cy="55" r="1.8" fill="var(--ll-line)"/><g transform="translate(5 10) scale(0.9)"><path d="M62.3 1.1C63.1 1.3 64.2 1.8 64.4 2.6C64.6 3.3 65.5 3.5 63.7 5.7C61.9 7.9 56.5 12.7 53.6 15.8C50.7 18.9 48.5 21.5 46.6 24.2C44.7 26.9 43.1 29.4 42 31.8C40.9 34.2 40.3 35.8 40 38.5C39.6 41.3 39.5 45.5 39.8 48.5C40.1 51.5 40.8 53.9 41.8 56.4C42.8 58.8 44.4 61.6 46.1 63.4C47.7 65.2 49.7 66.6 51.5 67.2C53.3 67.9 55.2 67.8 56.7 67.3C58.2 66.8 59.6 65.4 60.5 64.1C61.4 62.9 61.7 62.4 62.2 59.9C62.7 57.5 63.1 51.7 63.5 49.4C63.9 47.1 64.2 47 64.8 46.3C65.5 45.7 66.7 45.4 67.5 45.8C68.2 46.1 69.1 47.3 69.5 48.4C69.9 49.5 70 50.7 69.9 52.4C69.8 54.1 69.4 56.7 69 58.7C68.7 60.7 68.2 62.6 67.7 64.2C67.1 65.7 66.5 66.8 65.8 67.9C65 69 64 70.1 63 70.9C61.9 71.8 60.7 72.5 59.5 73.1C58.3 73.6 57 74 55.7 74.1C54.4 74.3 53.1 74.3 51.7 74.1C50.3 73.9 48.7 73.5 47.4 72.9C46.1 72.3 45.1 71.7 43.8 70.7C42.6 69.7 41.2 68.2 40.1 66.8C39 65.4 38.3 64.9 37.2 62.3C36.1 59.6 34.2 55.1 33.5 51.1C32.9 47 33 41.8 33.5 38C34 34.3 34.8 31.9 36.5 28.5C38.1 25.1 40.1 21.6 43.5 17.5C46.9 13.4 54.1 6.6 56.8 4C59.5 1.4 58.9 2.3 59.8 1.8C60.7 1.3 61.6 1 62.3 1.1Z" fill="var(--ll-line)" fill-rule="evenodd"/></g>` }] } },
+  { id: 'tet', picture: 'A snail shell', hint: { caption: 'A curl that winds around itself, like a snail.', show: 0, variants: [{ label: 'A', svg: `<path d="M4 70H96" fill="none" stroke="var(--ll-gray)" stroke-width="1.6" stroke-dasharray="4 3" stroke-linecap="round"/><path d="M21.5 61.5L18 51.5M25 61.5L27.5 51.5" fill="none" stroke="var(--ll-line)" stroke-linecap="round" stroke-linejoin="round" stroke-width="1.4"/><circle cx="18" cy="51" r="1.9" fill="var(--ll-line)"/><circle cx="27.5" cy="51" r="1.9" fill="var(--ll-line)"/><path d="M23 74Q17.5 74 17.5 67.5Q17.5 61 23.4 61Q28.6 61 29.6 66.2Q30.6 69.4 36 69.4H66Q73 69.4 80 74Q60 75.2 23 74Z" fill="var(--ll-green)" stroke="var(--ll-line)" stroke-linecap="round" stroke-linejoin="round" stroke-width="1.3"/><circle cx="51.6" cy="55.6" r="12.4" fill="var(--ll-orange)" stroke="var(--ll-line)" stroke-linecap="round" stroke-linejoin="round" stroke-width="1.4"/><path d="M52.1 52.4q6-1 5 5q-1 6-7 5q-6-1-5-7q1-7 8-6" fill="none" stroke="var(--ll-orange-dk)" stroke-width="1.6" stroke-linecap="round"/><g transform="translate(5 5.6) scale(0.9)"><path d="M62.3 1.1C63.1 1.3 64.2 1.8 64.4 2.6C64.6 3.3 65.5 3.5 63.7 5.7C61.9 7.9 56.5 12.7 53.6 15.8C50.7 18.9 48.5 21.5 46.6 24.2C44.7 26.9 43.1 29.4 42 31.8C40.9 34.2 40.3 35.8 40 38.5C39.6 41.3 39.5 45.5 39.8 48.5C40.1 51.5 40.8 53.9 41.8 56.4C42.8 58.8 44.4 61.6 46.1 63.4C47.7 65.2 49.7 66.6 51.5 67.2C53.3 67.9 55.2 67.8 56.7 67.3C58.2 66.8 59.6 65.4 60.5 64.1C61.4 62.9 61.7 62.4 62.2 59.9C62.7 57.5 63.1 51.7 63.5 49.4C63.9 47.1 64.2 47 64.8 46.3C65.5 45.7 66.7 45.4 67.5 45.8C68.2 46.1 69.1 47.3 69.5 48.4C69.9 49.5 70 50.7 69.9 52.4C69.8 54.1 69.4 56.7 69 58.7C68.7 60.7 68.2 62.6 67.7 64.2C67.1 65.7 66.5 66.8 65.8 67.9C65 69 64 70.1 63 70.9C61.9 71.8 60.7 72.5 59.5 73.1C58.3 73.6 57 74 55.7 74.1C54.4 74.3 53.1 74.3 51.7 74.1C50.3 73.9 48.7 73.5 47.4 72.9C46.1 72.3 45.1 71.7 43.8 70.7C42.6 69.7 41.2 68.2 40.1 66.8C39 65.4 38.3 64.9 37.2 62.3C36.1 59.6 34.2 55.1 33.5 51.1C32.9 47 33 41.8 33.5 38C34 34.3 34.8 31.9 36.5 28.5C38.1 25.1 40.1 21.6 43.5 17.5C46.9 13.4 54.1 6.6 56.8 4C59.5 1.4 58.9 2.3 59.8 1.8C60.7 1.3 61.6 1 62.3 1.1Z" fill="var(--ll-line)" fill-rule="evenodd"/></g>` }] } },
   { id: 'yod', picture: 'A raindrop', hint: { caption: 'The smallest letter, a tiny drop floating at the top of the line.', show: 0, variants: [{ label: 'A', svg: `<path d="M4 70H96" fill="none" stroke="var(--ll-gray)" stroke-width="1.6" stroke-dasharray="4 3" stroke-linecap="round"/><path d="M20 30H80" fill="none" stroke="var(--ll-gray)" stroke-width="1.6" stroke-dasharray="4 3" stroke-linecap="round"/><ellipse cx="44" cy="18" rx="11" ry="7" fill="var(--ll-white)" stroke="var(--ll-line)" stroke-linecap="round" stroke-linejoin="round" stroke-width="1.3"/><ellipse cx="56" cy="13" rx="11" ry="8" fill="var(--ll-white)" stroke="var(--ll-line)" stroke-linecap="round" stroke-linejoin="round" stroke-width="1.3"/><ellipse cx="67" cy="19" rx="10" ry="6.5" fill="var(--ll-white)" stroke="var(--ll-line)" stroke-linecap="round" stroke-linejoin="round" stroke-width="1.3"/><ellipse cx="55" cy="21" rx="17" ry="6" fill="var(--ll-white)" stroke="var(--ll-line)" stroke-linecap="round" stroke-linejoin="round" stroke-width="1.3"/><ellipse cx="44" cy="18" rx="11" ry="7" fill="var(--ll-white)"/><ellipse cx="56" cy="13" rx="11" ry="8" fill="var(--ll-white)"/><ellipse cx="67" cy="19" rx="10" ry="6.5" fill="var(--ll-white)"/><ellipse cx="55" cy="21" rx="17" ry="6" fill="var(--ll-white)"/><path d="M50 27q8 10 6.5 17a6.5 6.5 0 0 1-13 0q-1.5-7 6.5-17z" fill="var(--ll-sky)" stroke="var(--ll-line)" stroke-linecap="round" stroke-linejoin="round" stroke-width="1.2"/><g class="ll-anim ll-anim-bob"><path d="M30 40q4 5 3.3 8.5a3.3 3.3 0 0 1-6.6 0q-0.7-3.5 3.3-8.5z" fill="var(--ll-blue)" stroke="var(--ll-line)" stroke-linecap="round" stroke-linejoin="round" stroke-width="1"/><path d="M71 50q4 5 3.3 8.5a3.3 3.3 0 0 1-6.6 0q-0.7-3.5 3.3-8.5z" fill="var(--ll-blue)" stroke="var(--ll-line)" stroke-linecap="round" stroke-linejoin="round" stroke-width="1"/></g><ellipse cx="50" cy="72" rx="15" ry="3" fill="var(--ll-sky)" stroke="var(--ll-line)" stroke-linecap="round" stroke-linejoin="round" stroke-width="1"/><path d="M50 27.3C50.6 27.1 51.1 27.3 51.6 27.5C52.1 27.7 52.4 27.7 52.8 28.8C53.2 29.9 53.7 31.2 53.8 34.1C53.9 37 53.7 43.7 53.5 46.2C53.3 48.6 52.9 48.1 52.5 48.7C52 49.3 51.3 49.6 50.8 49.6C50.3 49.7 49.8 49.5 49.4 49.2C49 48.8 48.6 48.8 48.3 47.6C47.9 46.4 47.5 44.9 47.4 42.2C47.3 39.4 47.4 33.3 47.6 31.1C47.8 28.8 48.1 29.2 48.5 28.6C48.9 28 49.5 27.5 50 27.3Z" fill="var(--ll-line)" fill-rule="evenodd"/>` }] } },
-  { id: 'kaf', picture: 'A cupped hand', hint: { caption: 'Kaf means palm: a curve like a hand cupped to catch a ball.', show: 0, variants: [{ label: 'A', svg: `<path d="M4 70H96" fill="none" stroke="var(--ll-gray)" stroke-width="1.6" stroke-dasharray="4 3" stroke-linecap="round"/><circle cx="52" cy="50" r="14" fill="var(--ll-skin)"/><ellipse cx="34" cy="63" rx="6" ry="3.5" fill="var(--ll-skin)" stroke="var(--ll-line)" stroke-linecap="round" stroke-linejoin="round" stroke-width="1.2"/><path d="M38 37q3-2 6 0M46 35q3-2 6 0M54 36q3-2 6 0" fill="none" stroke="var(--ll-skin-dk)" stroke-width="1.2" stroke-linecap="round"/><g class="ll-anim ll-anim-bob"><circle cx="40" cy="16" r="7" fill="var(--ll-red)" stroke="var(--ll-line)" stroke-linecap="round" stroke-linejoin="round" stroke-width="1.4"/><path d="M34 12q6-6 12 0" fill="none" stroke="var(--ll-white)" stroke-width="1.4" stroke-linecap="round" opacity="0.7"/><path d="M27 20l-4 2M28 26l-4 0M30 31l-3 2M52 20l4 2M51 26l4 0M50 31l3 2" fill="none" stroke="var(--ll-gray-dk)" stroke-width="1.2" stroke-linecap="round"/></g><path d="M43.1 26C46.2 25.7 49.8 25.9 52.7 26.4C55.7 26.9 58.5 27.9 60.8 29.1C63.1 30.4 64.8 31.6 66.4 33.6C68.1 35.6 69.7 38.2 70.7 41.1C71.7 44 72.5 47.9 72.6 51C72.7 54.2 71.6 57.8 71.1 59.9C70.5 61.9 70 62.2 69.3 63.3C68.5 64.4 67.5 65.5 66.5 66.4C65.4 67.4 64.3 68.2 63.1 69C61.9 69.7 61.2 70.2 59.3 70.8C57.3 71.4 54.8 72.2 51.3 72.5C47.7 72.8 40.9 72.7 37.9 72.6C34.8 72.5 34 72.4 32.8 71.9C31.5 71.5 30.7 70.6 30.3 69.9C30 69.2 30.2 68.4 30.8 67.8C31.3 67.3 30.2 66.8 33.4 66.5C36.7 66.2 46.2 66.3 50.2 65.9C54.2 65.5 55.4 65.1 57.4 64.2C59.5 63.4 61.2 62.2 62.5 60.8C63.8 59.4 64.8 57.4 65.4 55.6C66.1 53.8 66.2 51.8 66.1 50C66.1 48.2 65.8 46.5 65.2 44.7C64.6 42.9 63.5 40.7 62.4 39.2C61.3 37.7 59.8 36.5 58.6 35.5C57.4 34.6 56.3 34 55.1 33.5C53.9 33 53 32.7 51.2 32.5C49.3 32.3 46.6 32.2 44 32.3C41.3 32.4 37.2 33.3 35.3 33.3C33.3 33.2 32.9 32.6 32.5 32C32 31.5 32.2 30.6 32.5 30C32.8 29.4 32.6 28.9 34.4 28.2C36.2 27.6 40.1 26.3 43.1 26Z" fill="var(--ll-line)" fill-rule="evenodd"/>` }] } },
+  { id: 'kaf', picture: 'A cupped hand', hint: { caption: 'Kaf means palm: a curve like a hand cupped to catch a ball.', show: 0, variants: [{ label: 'A', svg: `<path d="M4 70H96" fill="none" stroke="var(--ll-gray)" stroke-width="1.6" stroke-dasharray="4 3" stroke-linecap="round"/><path d="M86.5 40H98V70H86.5Z" fill="var(--ll-blue)" stroke="var(--ll-line)" stroke-linecap="round" stroke-linejoin="round" stroke-width="1.5"/><path d="M33 30Q30 32 30.5 36Q26 36 25 31.5Q24.4 27.2 28 25.6Q27.4 21.4 32.4 19.6Q32.8 16.6 38 15.6Q45 14.4 53 15Q65 16 73 23.5Q80.8 31 82 42L84 44V67Q79 78 66 80Q55 81.2 42 80Q31 79.6 27.4 77.2Q24.4 74.2 27.6 70.6L31 69.2H50Q69.3 69 69.3 50Q69.3 29.5 50 29.5Z" fill="var(--ll-skin)" stroke="var(--ll-line)" stroke-linecap="round" stroke-linejoin="round" stroke-width="1.5"/><path d="M28 25.6Q36 22.8 46 22.6Q55 22.6 61 24.6M32.4 19.6Q40 17.8 48 18Q56 18.4 62 20.4" fill="none" stroke="var(--ll-line)" stroke-width="1.3" stroke-linecap="round"/><path d="M56 73.5Q60.5 77.5 67 78.6" fill="none" stroke="var(--ll-skin-dk)" stroke-width="1.4" stroke-linecap="round"/><rect x="80.5" y="41.5" width="7" height="27" rx="1.5" fill="var(--ll-white)" stroke="var(--ll-line)" stroke-linecap="round" stroke-linejoin="round" stroke-width="1.5"/><g class="ll-anim ll-anim-bob"><circle cx="47" cy="56" r="9" fill="var(--ll-red)" stroke="var(--ll-line)" stroke-linecap="round" stroke-linejoin="round" stroke-width="1.4"/><path d="M40.5 52q5-6.5 12-2" fill="none" stroke="var(--ll-white)" stroke-width="1.4" stroke-linecap="round" opacity="0.7"/></g><path d="M43.1 26C46.2 25.7 49.8 25.9 52.7 26.4C55.7 26.9 58.5 27.9 60.8 29.1C63.1 30.4 64.8 31.6 66.4 33.6C68.1 35.6 69.7 38.2 70.7 41.1C71.7 44 72.5 47.9 72.6 51C72.7 54.2 71.6 57.8 71.1 59.9C70.5 61.9 70 62.2 69.3 63.3C68.5 64.4 67.5 65.5 66.5 66.4C65.4 67.4 64.3 68.2 63.1 69C61.9 69.7 61.2 70.2 59.3 70.8C57.3 71.4 54.8 72.2 51.3 72.5C47.7 72.8 40.9 72.7 37.9 72.6C34.8 72.5 34 72.4 32.8 71.9C31.5 71.5 30.7 70.6 30.3 69.9C30 69.2 30.2 68.4 30.8 67.8C31.3 67.3 30.2 66.8 33.4 66.5C36.7 66.2 46.2 66.3 50.2 65.9C54.2 65.5 55.4 65.1 57.4 64.2C59.5 63.4 61.2 62.2 62.5 60.8C63.8 59.4 64.8 57.4 65.4 55.6C66.1 53.8 66.2 51.8 66.1 50C66.1 48.2 65.8 46.5 65.2 44.7C64.6 42.9 63.5 40.7 62.4 39.2C61.3 37.7 59.8 36.5 58.6 35.5C57.4 34.6 56.3 34 55.1 33.5C53.9 33 53 32.7 51.2 32.5C49.3 32.3 46.6 32.2 44 32.3C41.3 32.4 37.2 33.3 35.3 33.3C33.3 33.2 32.9 32.6 32.5 32C32 31.5 32.2 30.6 32.5 30C32.8 29.4 32.6 28.9 34.4 28.2C36.2 27.6 40.1 26.3 43.1 26Z" fill="var(--ll-line)" fill-rule="evenodd"/>` }] } },
   { id: 'kaf_sofit', picture: 'A long arm', hint: { caption: 'At the end of a word, the hand reaches way down below the line.', show: 0, variants: [{ label: 'A', svg: `<path d="M4 70H96" fill="none" stroke="var(--ll-gray)" stroke-width="1.6" stroke-dasharray="4 3" stroke-linecap="round"/><path d="M4 97H96" fill="none" stroke="var(--ll-wood-dk)" stroke-width="1.6" stroke-linecap="round"/><circle cx="56" cy="88" r="7" fill="var(--ll-green)" stroke="var(--ll-line)" stroke-linecap="round" stroke-linejoin="round" stroke-width="1.4"/><path d="M50 86q6-6 12 0M50 90q6 6 12 0" fill="none" stroke="var(--ll-white)" stroke-width="1.2" stroke-linecap="round" opacity="0.8"/><ellipse cx="35" cy="93" rx="6.5" ry="4.5" fill="var(--ll-skin)" stroke="var(--ll-line)" stroke-linecap="round" stroke-linejoin="round" stroke-width="1.3"/><path d="M30 90q-2-4 1-5M34 89q-1-4 2-5M38 89q0-4 3-4M42 92q2-2 4 0" fill="none" stroke="var(--ll-line)" stroke-linecap="round" stroke-linejoin="round" stroke-width="1.2"/><g transform="translate(7.5 10.5) scale(0.8)"><path d="M42 26C44.7 25.6 46 25.9 48.3 26.3C50.6 26.7 53.9 27.7 55.9 28.4C57.8 29.2 58.4 29.7 59.9 30.8C61.3 32 63.3 33.9 64.5 35.4C65.8 36.9 66.5 38.1 67.3 39.7C68.1 41.4 68.8 43.4 69.2 45.3C69.6 47.1 69.8 48.8 69.9 51C69.9 53.2 69.9 56.7 69.7 58.6C69.5 60.5 69.2 61.3 68.8 62.4C68.4 63.6 67.9 64.5 67.1 65.6C66.2 66.7 65 68.1 63.9 69.1C62.7 70.1 62.3 70.7 60.3 71.4C58.4 72.1 55.7 73 52.3 73.2C48.8 73.5 42.4 72.5 39.9 72.6C37.4 72.8 37.7 73.1 37 74.1C36.3 75.1 35.8 74.4 35.7 78.6C35.5 82.8 36.2 95.6 36.1 99.5C36 103.4 35.6 101.4 35.1 102C34.6 102.6 33.7 103.1 33.1 102.9C32.4 102.8 31.5 102.2 31 101.1C30.5 100.1 30.3 101.3 30.2 96.6C30 92 29.9 78.1 30.1 73.3C30.4 68.5 30.9 68.9 31.4 67.7C31.9 66.5 32.4 66.5 33.1 66.2C33.8 65.8 33.3 65.3 35.7 65.5C38.1 65.7 44.2 67.4 47.6 67.5C51.1 67.5 54.2 66.3 56.2 65.7C58.1 65.2 58.5 64.7 59.3 64.1C60.2 63.5 60.6 63.5 61.3 62.1C62 60.7 63.1 57.6 63.4 55.6C63.8 53.5 63.6 51.9 63.4 49.9C63.1 48 62.4 45.8 61.6 44C60.9 42.3 60.1 40.9 59.1 39.6C58 38.3 56.6 37.2 55.3 36.3C53.9 35.3 52.5 34.5 51.1 33.9C49.7 33.4 48.7 33.1 47.1 32.9C45.5 32.7 43.8 32.5 41.4 32.7C39.1 32.9 34.7 33.9 33 34C31.3 34.2 31.7 33.9 31.2 33.6C30.7 33.4 30.3 33.1 30.1 32.6C29.9 32 29.7 31.1 30.1 30.4C30.4 29.7 30.1 29.2 32.1 28.4C34.1 27.7 39.3 26.3 42 26Z" fill="var(--ll-line)" fill-rule="evenodd"/></g>` }] } },
   { id: 'lamed', picture: 'A tall flagpole', hint: { caption: 'The tallest letter: it reaches up above the line to grab something.', show: 0, variants: [{ label: 'A', svg: `<path d="M4 70H96" fill="none" stroke="var(--ll-gray)" stroke-width="1.6" stroke-dasharray="4 3" stroke-linecap="round"/><path d="M20 30H80" fill="none" stroke="var(--ll-gray)" stroke-width="1.6" stroke-dasharray="4 3" stroke-linecap="round"/><g class="ll-anim ll-anim-drift"><polygon points="51,6 76,12 51,19" fill="var(--ll-red)" stroke="var(--ll-line)" stroke-linecap="round" stroke-linejoin="round" stroke-width="1.3"/><path d="M51 12h12" fill="none" stroke="var(--ll-red-dk)" stroke-width="1.2" stroke-linecap="round"/></g><path d="M86 10l1.8 4h4.2l-3.4 2.6 1.3 4.2-3.9-2.5-3.9 2.5 1.3-4.2-3.4-2.6h4.2z" fill="var(--ll-gold)" stroke="var(--ll-line)" stroke-linecap="round" stroke-linejoin="round" stroke-width="1"/><circle cx="49.5" cy="5.5" r="2.6" fill="var(--ll-gold)" stroke="var(--ll-line)" stroke-linecap="round" stroke-linejoin="round" stroke-width="1.1"/><g transform="translate(7.5 12.5) scale(0.8)"><path d="M65.6 -5.9C68.1 -5.9 67.1 -5.7 67.6 -5.4C68.2 -5.1 68.6 -4.7 68.8 -4.3C69 -3.9 69 -3.4 68.8 -2.9C68.5 -2.5 68.3 -2.1 67.5 -1.6C66.7 -1.2 66.8 -1 63.9 -0.4C60.9 0.2 52.4 1.4 49.6 2.1C46.8 2.8 47.7 3 47 3.7C46.3 4.4 45.8 4.6 45.4 6.3C45 8.1 43.8 6.6 44.6 14.3C45.4 22.1 49.1 44.6 50 52.9C50.8 61.3 50.2 61.7 49.9 64.7C49.6 67.7 48.9 69.3 48.1 70.9C47.3 72.6 46.6 73.6 45.3 74.5C44.1 75.4 42.3 76.1 40.6 76.3C38.9 76.5 36.6 76 35.1 75.6C33.7 75.2 32.9 74.6 32.1 73.8C31.2 73.1 30.5 72.2 29.9 71C29.4 69.9 29 68.5 28.7 67C28.5 65.6 28.4 63.7 28.5 62.1C28.6 60.6 28.9 59.1 29.3 57.7C29.8 56.3 30.5 55 31.4 53.6C32.3 52.2 33.2 50.9 34.7 49.5C36.2 48.1 39 46.2 40.1 45.1C41.3 43.9 41.2 43.6 41.4 42.4C41.7 41.2 41.8 41 41.4 37.7C41 34.4 39.5 27.6 39.1 22.5C38.7 17.5 38.9 10.8 39.1 7.3C39.2 3.9 39.4 3.4 39.9 2C40.5 0.5 41.2 -0.5 42.4 -1.5C43.6 -2.5 45.5 -3.3 47.2 -3.9C48.9 -4.4 49.6 -4.6 52.7 -4.9C55.7 -5.3 63.1 -5.8 65.6 -5.9ZM40.9 53.9C40.3 53.9 39.7 54.1 39.1 54.5C38.5 54.9 38 55.1 37.4 56.2C36.8 57.4 35.6 59.9 35.4 61.6C35.1 63.4 35.6 65.6 35.9 66.7C36.2 67.8 36.7 67.9 37.1 68.3C37.6 68.7 38 69.1 38.8 69C39.6 68.9 41.2 68.6 42 67.7C42.7 66.8 43.3 65.5 43.5 63.6C43.7 61.8 43.5 58 43.3 56.5C43.1 55 42.7 55.1 42.3 54.6C41.9 54.2 41.4 54 40.9 53.9Z" fill="var(--ll-line)" fill-rule="evenodd"/></g>` }] } },
   { id: 'mem', picture: 'A wave', hint: { caption: 'Mayim means water: mem rolls like a wave.', show: 0, variants: [{ label: 'A', svg: `<path d="M4 60Q14 52 24 60T44 60T64 58T84 60T96 60V70H4Z" fill="var(--ll-sky)"/><path d="M4 64Q14 58 24 64T44 64T64 62T84 64T96 64V70H4Z" fill="var(--ll-blue)"/><path d="M30 46q3 4 0 8" fill="none" stroke="var(--ll-white)" stroke-width="2.2" stroke-linecap="round" opacity="0.8"/><g class="ll-anim ll-anim-bob"><polygon points="70,57 92,57 88,65 74,65" fill="var(--ll-wood)" stroke="var(--ll-line)" stroke-linecap="round" stroke-linejoin="round" stroke-width="1.3"/><path d="M81 57V40" fill="none" stroke="var(--ll-line)" stroke-linecap="round" stroke-linejoin="round" stroke-width="1.4"/><polygon points="81,40 92,56 81,56" fill="var(--ll-white)" stroke="var(--ll-line)" stroke-linecap="round" stroke-linejoin="round" stroke-width="1.2"/></g><g class="ll-anim ll-anim-drift"><ellipse cx="16" cy="48" rx="7" ry="4" fill="var(--ll-orange)" stroke="var(--ll-line)" stroke-linecap="round" stroke-linejoin="round" stroke-width="1.2"/><polygon points="9,48 4,44 4,52" fill="var(--ll-orange)" stroke="var(--ll-line)" stroke-linecap="round" stroke-linejoin="round" stroke-width="1.2"/><circle cx="19" cy="47" r="0.9" fill="var(--ll-line)"/></g><path d="M4 70H96" fill="none" stroke="var(--ll-gray)" stroke-width="1.6" stroke-dasharray="4 3" stroke-linecap="round"/><path d="M64.7 27.3C65.2 27.4 66.2 27.9 66.7 28.9C67.2 29.9 67.4 27.5 67.5 33.3C67.6 39.2 67.7 57.9 67.5 63.9C67.3 69.9 67 68.3 66.4 69.4C65.7 70.5 64.8 70.7 63.9 70.5C62.9 70.4 63.9 72.6 60.7 68.5C57.5 64.4 47.7 49.8 44.6 45.7C41.5 41.6 42.7 43.9 42.1 43.7C41.5 43.6 41.3 44 41 44.6C40.7 45.2 40.6 43.5 40.3 47.3C40.1 51.1 40.1 63.5 39.7 67.3C39.3 71.1 38.7 69.8 38.1 70.3C37.4 70.8 36.3 70.8 35.6 70.4C34.9 70 34.5 69.2 34.1 68C33.8 66.8 33.7 68.8 33.7 63.1C33.6 57.5 33.5 39.8 33.7 34.1C33.9 28.3 34.2 29.6 34.9 28.5C35.5 27.3 36.5 27.1 37.5 27.2C38.5 27.3 37.5 24.9 40.7 29.1C44 33.2 53.8 47.9 57 52.1C60.2 56.3 59.2 54.1 59.9 54.3C60.6 54.4 61 53.9 61.3 53.2C61.7 52.6 61.8 54.1 62 50.4C62.2 46.6 62.3 34.4 62.5 30.8C62.7 27.1 62.9 28.9 63.3 28.3C63.7 27.8 64.1 27.2 64.7 27.3Z" fill="var(--ll-line)" fill-rule="evenodd"/>` }] } },

diff --git a/sw.js b/sw.js
@@ -1,5 +1,5 @@
 /* IvritSuite service worker — bump VERSION to invalidate the cache on deploy. */
-const VERSION = 'v1021';
+const VERSION = 'v1022';
 const CACHE = 'ivritsuite-' + VERSION;
 // Version-independent cache for the big data/ corpora (dictionary words / emoji / parshiyot /
 // pockettorah). Kept OUT of the version-scoped CACHE so a routine VERSION bump no longer evicts
